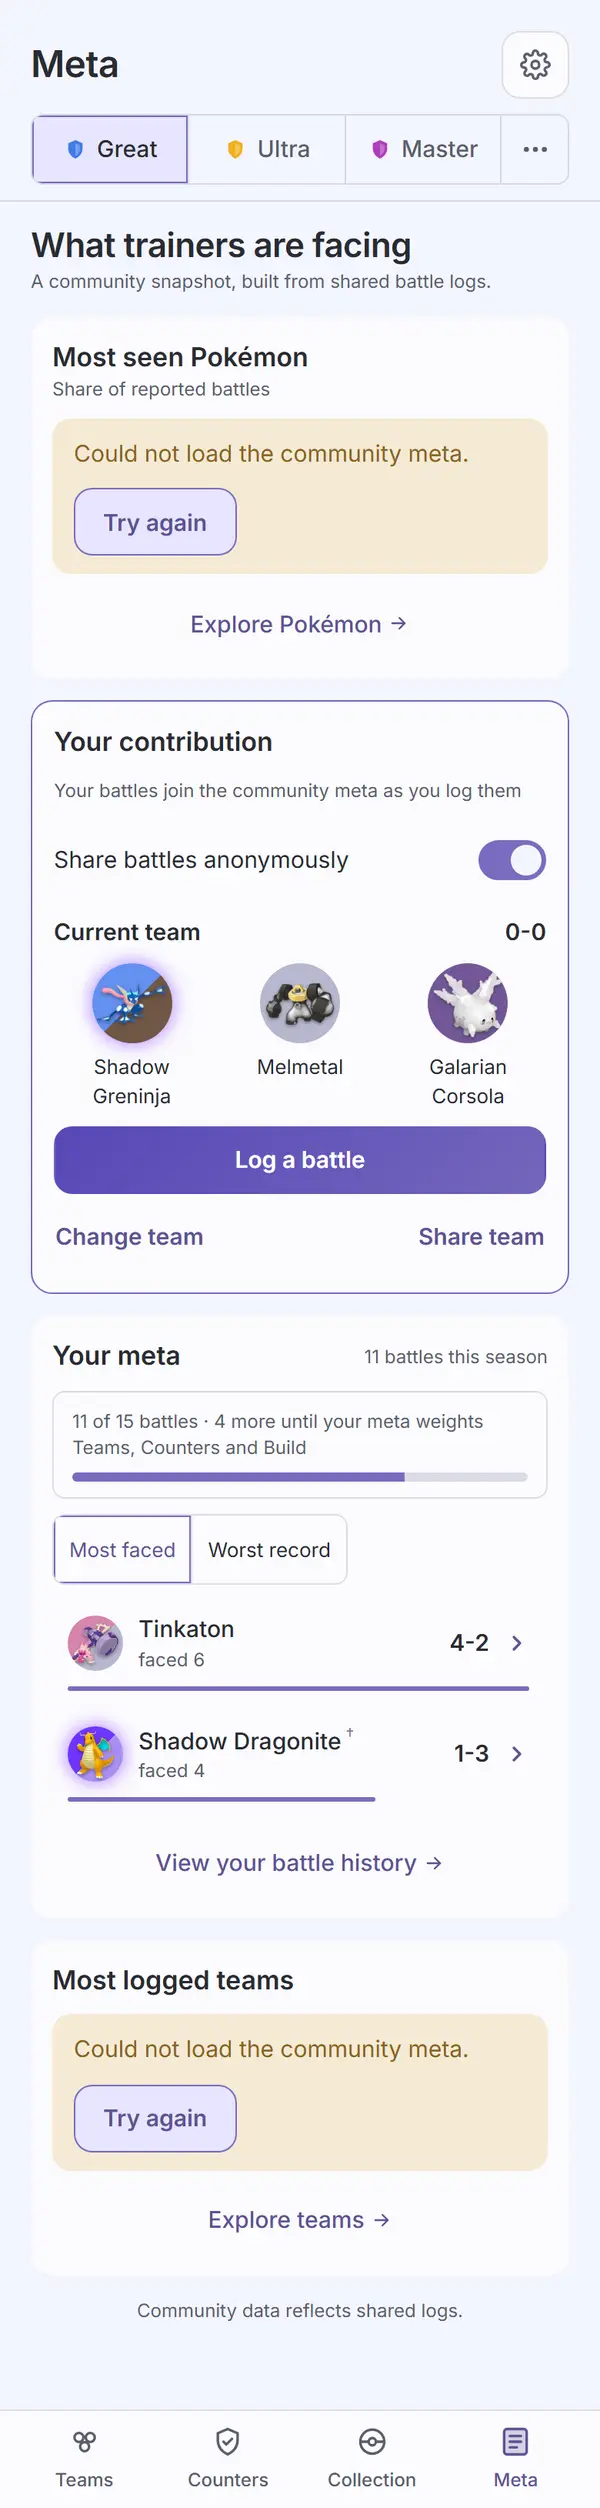
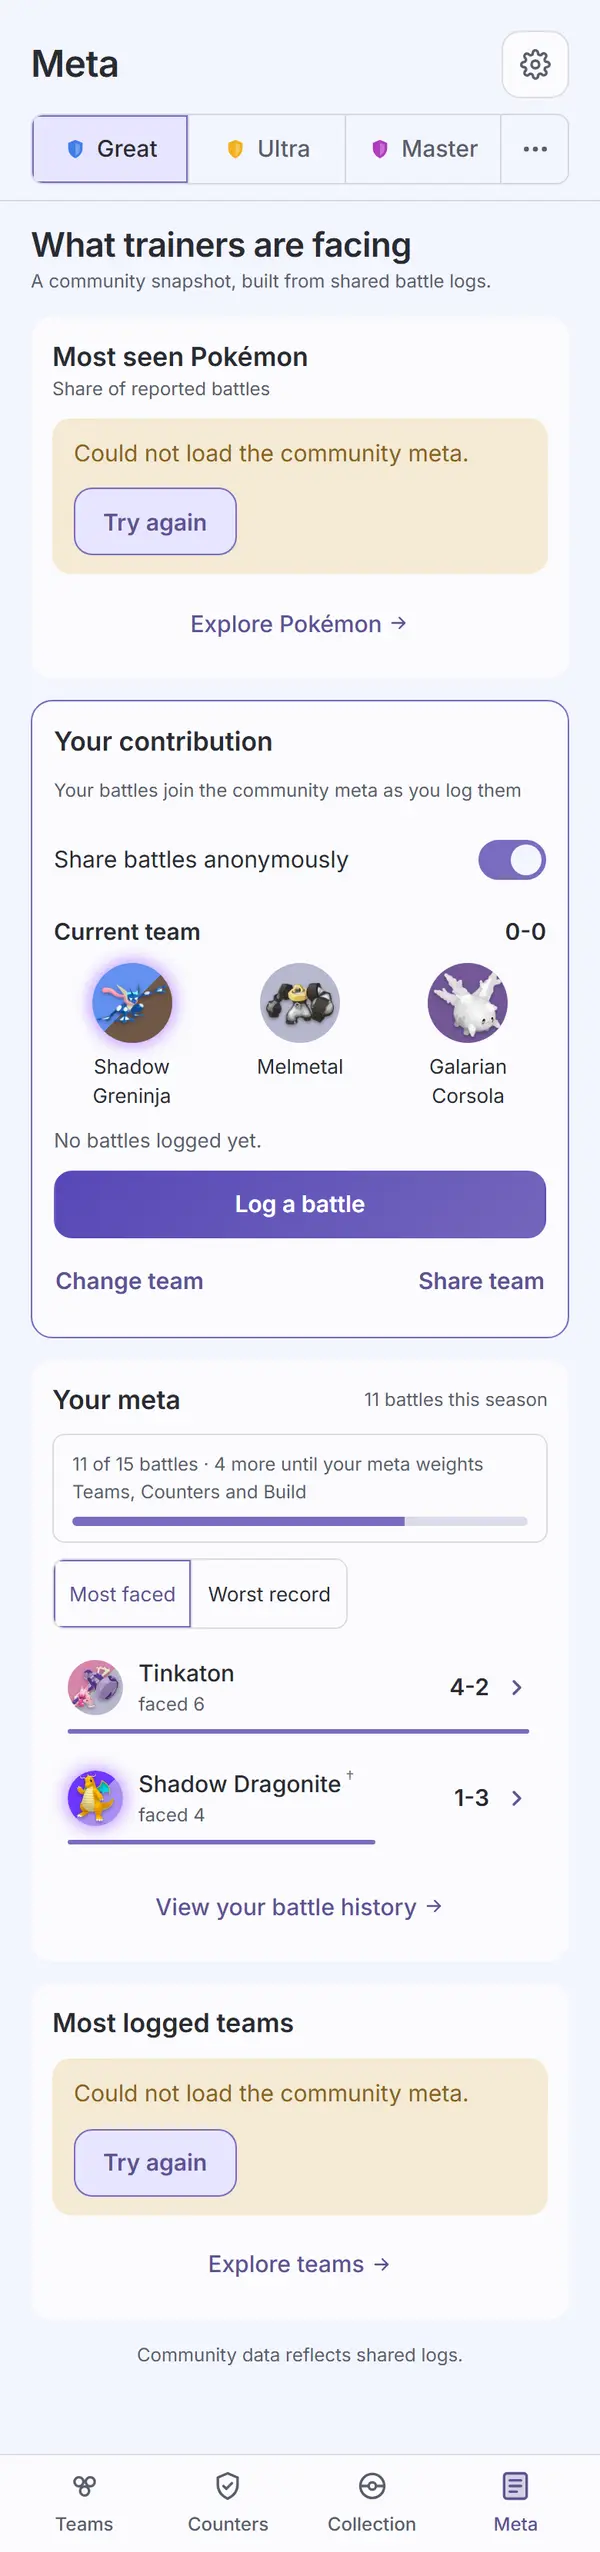
Audit: result strip, unsighted shares and a viewport 04-collection
screens.mjs reaches log-battle-edit by tapping a Loss chip on the Meta landing's result strip,
shoots 04-collection at screen height now that the list runs through the whole league, and puts
the saved settings back after Welcome's "Start without a collection" step so later captures see
the settings they always did. The Meta landing's four pairs and 04-collection's are regenerated;
the records note the fix round's rulings and run.

Claude-Session: https://claude.ai/code/session_01Pw9mmLb5zRDgidsqrbwkCj

diff --git a/docs/design/audits/meta-home.md b/docs/design/audits/meta-home.md
@@ -16,17 +16,17 @@ Sprites are on in this worktree's game data, so every Pokémon shows its real sp
 ## Screenshots
 
 Dark and light at 390px, one pair per state, full page, from the 2026-10-01 `npm run web:audit`
-run on the code committed as `eb56ca0` (with this record's `screens.mjs`), converted to WebP (600px
-wide, quality 72). The community numbers are the synthetic fixtures
+run on the code committed as `cabef9a` (the fix round: the result strip back, no share for an
+unsighted species), converted to WebP (600px wide, quality 72). The community numbers are the synthetic fixtures
 `fixtures/community-meta-sample.json` (1,240 battles from 18 devices, Medicham, Lanturn and
 Azumarill sighted) and `fixtures/community-teams-sample.json` (three cores, no complete team), so
 both Most logged teams rows are the baked generated teams, marked Projected.
 
 | State | Dark | Light |
 | --- | --- | --- |
-| `meta-home-first`: reached from Welcome's "Start without a collection", no collection and no battle log. Most seen Pokémon "Share of reported battles": Medicham 33%, Lanturn 27%, Azumarill 10%, Mimikyu 0%, Melmetal 0%, each share pink with its bar mark; "Explore Pokémon"; Most logged teams with two Projected rows and the caption "Projected from PvPoke's meta group until players log teams."; "Explore teams"; Help build the meta (accent outline) with the share switch on, "Log a battle" and "No collection import needed."; the empty Your meta card; the footer | ![](img/meta-home-first-dark.webp) | ![](img/meta-home-first-light.webp) |
-| `meta-home-log`: after the sample import (11 battles this season). Your contribution: "Your battles join the community meta as you log them" (nothing sent yet, plain text), the share switch, Current team "0-0" with Shadow Greninja, Melmetal and Galarian Corsola, "Log a battle", "Change team" and "Share team"; Your meta: "11 battles this season", the progress box "11 of 15 battles · 4 more until your meta weights Teams, Counters and Build" with its bar, Most faced / Worst record, Tinkaton and Shadow Dragonite (with the outsider dagger), "View your battle history"; Most logged teams without the caption | ![](img/meta-home-log-dark.webp) | ![](img/meta-home-log-light.webp) |
-| `meta-home-active`: six battles seeded into the running set, five sent (one tanked), 16 this season. The pink `MeasuredLine` "5 of your battles are in the community meta"; Current team "3-2"; the progress box "Your meta is weighting Teams, Counters and Build" with a full bar | ![](img/meta-home-active-dark.webp) | ![](img/meta-home-active-light.webp) |
+| `meta-home-first`: reached from Welcome's "Start without a collection", no collection and no battle log. Most seen Pokémon "Share of reported battles": Medicham 33%, Lanturn 27%, Azumarill 10%, each share pink with its bar mark, then Mimikyu and Melmetal (PvPoke's group, no shared battle saw them) with their bar and chevron and no share; "Explore Pokémon"; Most logged teams with two Projected rows and the caption "Projected from PvPoke's meta group until players log teams."; "Explore teams"; Help build the meta (accent outline) with the share switch on, "Log a battle" and "No collection import needed."; the empty Your meta card; the footer | ![](img/meta-home-first-dark.webp) | ![](img/meta-home-first-light.webp) |
+| `meta-home-log`: after the sample import (11 battles this season). Your contribution: "Your battles join the community meta as you log them" (nothing sent yet, plain text), the share switch, Current team "0-0" with Shadow Greninja, Melmetal and Galarian Corsola, "No battles logged yet." where the result strip goes (the running team has none), "Log a battle", "Change team" and "Share team"; Your meta: "11 battles this season", the progress box "11 of 15 battles · 4 more until your meta weights Teams, Counters and Build" with its bar, Most faced / Worst record, Tinkaton and Shadow Dragonite (with the outsider dagger), "View your battle history"; Most logged teams without the caption | ![](img/meta-home-log-dark.webp) | ![](img/meta-home-log-light.webp) |
+| `meta-home-active`: six battles seeded into the running set, five sent (one tanked), 16 this season. The pink `MeasuredLine` "5 of your battles are in the community meta"; Current team "3-2" with its result strip (W, L, W, T in the Tanked amber, W, L) and "Tap a result to fix it"; the progress box "Your meta is weighting Teams, Counters and Build" with a full bar | ![](img/meta-home-active-dark.webp) | ![](img/meta-home-active-light.webp) |
 | `meta-home-error`: every community read answers 503 (`localStorage` `pick3.failMeta`, automation only). Most seen and Most logged each show the shared `ErrorState` "Could not load the community meta." with "Try again"; Your contribution and Your meta still draw from this phone | ![](img/meta-home-error-dark.webp) | ![](img/meta-home-error-light.webp) |
 
 The script checks as it shoots: the first visit has Help build the meta and no Your contribution,
@@ -51,6 +51,10 @@ covered by `apps/web/test/metaHome.test.tsx` (the confirm, the no-battles league
 - [x] no console errors: the run printed no "Browser errors" section.
 - [x] `npm run lint`, `npm run typecheck`, `npx vitest run --project web`, `npm run check-colors`:
       lint exit 0, typecheck exit 0, web 59 files and 748 tests passed, check-colors exit 0.
+- [x] fix round (2026-10-01, on `cabef9a` with the fix round's `screens.mjs`): `npm run web:audit` exit 0,
+      zero findings on every enforced screen in both themes, no "Browser errors" section, 117
+      findings on screens not yet redesigned, no NEVER line; web 59 files and 750 tests passed;
+      lint, typecheck and check-colors exit 0.
 
 ## Aesthetics
 
@@ -86,21 +90,20 @@ Awaiting Travis's review.
 | --- | --- | --- |
 | Audit: "Explore Pokémon", "Explore teams" and "View your battle history" were 32px tall tap targets (10 findings per theme on the log states). | `.mh-more` is `min-height: var(--tap)` with no padding, so the card's gap spaces it. | `eb56ca0` |
 | Audit: the Your meta card's Most faced / Worst record switch was 33px tall. | The Your battles page's 44px `Seg` sizing rule now covers `.mh-card .seg` too. | `eb56ca0` |
+| Task 15 review, controller ruling: the result strip ("Tap a result to fix it") was rendered nowhere, so a logged battle could be fixed only by its URL; the signed Your Meta keeps it. | Your contribution's Current team shows `ResultStrip` under the three tokens; a chip opens `#/meta/log/<set>/<battle>`. `metaHome.test.tsx` taps a Loss chip and lands on the edit route (RED before). `log-battle-edit` is captured by tapping a Loss chip on the landing again. | `cabef9a` |
+| Task 15 review, controller ruling: a species no shared battle saw read a pink "0%" in Most seen. | A row with no sightings shows no share, only its bar and chevron; `metaHome.test.tsx` asserts it (RED before). | `cabef9a` |
 
 ## Notes for the review (seen in the captures, not changed)
 
-- **A sighted-never species reads a pink "0%"** (Mimikyu and Melmetal in Most seen): the blend
-  puts PvPoke's group into the top five, and the measured share of a species nobody reported is a
-  real 0. Say if those rows should drop the share instead.
-- **The weight bar's track is wider when the share is shorter** ("0%" against "33%"), since the
-  bar fills the name column; the bars still compare by fill, not by track length.
+- **Resolved (controller ruling, `cabef9a`): an unsighted species shows no share.** Mimikyu and
+  Melmetal in Most seen keep their bar and chevron and print nothing where the pink 0% was.
+- **The weight bar's track is wider when the share is shorter or absent**, since the bar fills
+  the name column; the bars still compare by fill, not by track length.
 - **The outsider dagger shows on the landing's faced rows with no legend line**; the legend
   ("Outside PvPoke's 44: logged here, simulated on this phone.") is on Your battles only.
-- **The landing has no result strip.** The signed Your Meta's "Tap a result to fix it" chips
-  (`ResultStrip`, `CurrentTeam` in `components/meta/LogPieces.tsx`) are not rendered anywhere on
-  the new pages, so a logged battle can only be edited by its `#/meta/log/<set>/<battle>` link.
-  The spec's landing does not list the strip; the signed Your Meta record lists it as a must
-  keep. `log-battle-edit` is now captured through the route directly.
+- **Resolved (controller ruling, `cabef9a`): the result strip is back** on the landing's Current
+  team (see Findings). `CurrentTeam` in `components/meta/LogPieces.tsx` is still unused; only
+  `ResultStrip` came back.
 - **Most logged teams shows tokens with no names** on a Projected row, so the row says only
   "Projected"; its accessible name carries the three names.
 

diff --git a/docs/design/audits/collection.md b/docs/design/audits/collection.md
@@ -265,10 +265,12 @@ no chip row and no "Not collected" tag; `collection-league` must find a Not coll
 your own; `collection-league-meta` logs the trend tags on screen ("up 2 places, down 1 place,
 down 1 place"). The flat-list check now accepts "111 shown · 171 not collected".
 
-**The signed captures changed with the page.** `04-collection` (full page) now runs through every
-not-collected row, about 35,000px tall at 2x, so it is past what a 600px WebP can hold and its
-signed image is not re-converted; `collection-flat`'s count gains "· 171 not collected". Both are
-still enforced and clean.
+**The signed captures changed with the page.** `04-collection` was the whole page; with the list
+now running through every not-collected row (about 35,000px tall at 2x) it is a viewport capture
+(controller ruling), the top of the list as it opens: header, switcher, search, chips, "111
+Pokémon · 65 kinds · 171 not collected" and "Sort: Verdict", then the first Worth building rows.
+Its WebP pair is regenerated from the fix-round run on `cabef9a`. `collection-flat`'s count gains
+"· 171 not collected". Both are still enforced and clean.
 
 Not captured, covered by `apps/web/test/collection.test.tsx`: Hide not collected on (and its
 count in the filter badge), a search reaching the whole league, Top 50 meta on both kinds of
@@ -285,6 +287,10 @@ collected, and the scroll restored only once the blend is in.
 - [x] no console errors: the run printed no "Browser errors" section.
 - [x] `npm run lint`, `npm run typecheck`, `npx vitest run --project web`, `npm run check-colors`:
       lint exit 0, typecheck exit 0, web 59 files and 748 tests passed, check-colors exit 0.
+- [x] fix round (2026-10-01, on `cabef9a` with the fix round's `screens.mjs`): `npm run web:audit` exit 0,
+      zero findings on every enforced screen in both themes, no "Browser errors" section, 117
+      findings on screens not yet redesigned, no NEVER line; web 59 files and 750 tests passed;
+      lint, typecheck and check-colors exit 0.
 
 ### Aesthetics
 
@@ -304,8 +310,8 @@ Awaiting Travis's review.
 
 - **The count line takes two lines** ("111 Pokémon · 65 kinds · 171 not / collected") whenever
   not-collected rows show; the spec's sample was "212 Pokémon · 96 kinds · 142 not collected".
-- **`04-collection` is now very tall** (see above). Say if it should become a viewport capture,
-  or turn Hide not collected on, so it keeps showing what it was signed for.
+- **Resolved (controller ruling): `04-collection` is a viewport capture** (see above); the
+  bottom-of-list check ("the last row clear of the tab bar") it used to show is no longer in it.
 - **"200 Pokémon in Great League"** with nothing collected is the ranked part of the league
   (`NOT_COLLECTED_TOP`, Task 12's ruling), not every legal species.
 

diff --git a/docs/design/audits/your-battles.md b/docs/design/audits/your-battles.md
@@ -48,6 +48,10 @@ explainer dismissed, the Source state line with no bar.
 - [x] no console errors: the run printed no "Browser errors" section.
 - [x] `npm run lint`, `npm run typecheck`, `npx vitest run --project web`, `npm run check-colors`:
       lint exit 0, typecheck exit 0, web 59 files and 748 tests passed, check-colors exit 0.
+- [x] fix round (2026-10-01, on `cabef9a` with the fix round's `screens.mjs`): `npm run web:audit` exit 0,
+      zero findings on every enforced screen in both themes, no "Browser errors" section, 117
+      findings on screens not yet redesigned, no NEVER line; web 59 files and 750 tests passed;
+      lint, typecheck and check-colors exit 0.
 
 ## Aesthetics
 
@@ -85,12 +89,10 @@ Awaiting Travis's review.
 
 ## Notes for the review (seen in the captures, not changed)
 
-- **No page has the result strip any more.** The signed Your Meta's "Tap a result to fix it"
-  chips opened a battle for editing; neither this page nor the landing renders them
-  (`ResultStrip` and `CurrentTeam` in `components/meta/LogPieces.tsx` are unused). The edit view
-  still works by its route, which is how `log-battle-edit` is captured now. The spec moved the
-  current team card to the landing without naming the strip, so this is a call for Travis: put
-  the strip back on the landing's Current team, or drop the edit path.
+- **The result strip lives on the Meta landing** (controller ruling, `cabef9a`): the signed
+  Your Meta's "Tap a result to fix it" chips are on the landing's Current team now, not here,
+  with the rest of that card. `log-battle-edit` is captured by tapping a Loss chip there (see
+  `meta-home.md`).
 - **The page has no primary button.** "Log a battle" moved to the landing; that is the spec's
   split, noted because the signed record counted one primary.
 

diff --git a/docs/design/audits/species.md b/docs/design/audits/species.md
@@ -48,6 +48,10 @@ counting only for its Shadow form.
 - [x] no console errors: the run printed no "Browser errors" section.
 - [x] `npm run lint`, `npm run typecheck`, `npx vitest run --project web`, `npm run check-colors`:
       lint exit 0, typecheck exit 0, web 59 files and 748 tests passed, check-colors exit 0.
+- [x] fix round (2026-10-01, on `cabef9a` with the fix round's `screens.mjs`): `npm run web:audit` exit 0,
+      zero findings on every enforced screen in both themes, no "Browser errors" section, 117
+      findings on screens not yet redesigned, no NEVER line; web 59 files and 750 tests passed;
+      lint, typecheck and check-colors exit 0.
 
 ## Aesthetics
 

diff --git a/docs/design/audits/top-teams.md b/docs/design/audits/top-teams.md
@@ -43,6 +43,10 @@ pick3, Run this team's prefill included.
       lint exit 0, typecheck exit 0, web 59 files and 748 tests passed, check-colors exit 0.
 - [x] the script's own checks: the header title is centred (0.0px off), and the open row offers
       "Run this team".
+- [x] fix round (2026-10-01, on `cabef9a` with the fix round's `screens.mjs`): `npm run web:audit` exit 0,
+      zero findings on every enforced screen in both themes, no "Browser errors" section, 117
+      findings on screens not yet redesigned, no NEVER line; web 59 files and 750 tests passed;
+      lint, typecheck and check-colors exit 0.
 
 ## Aesthetics
 
